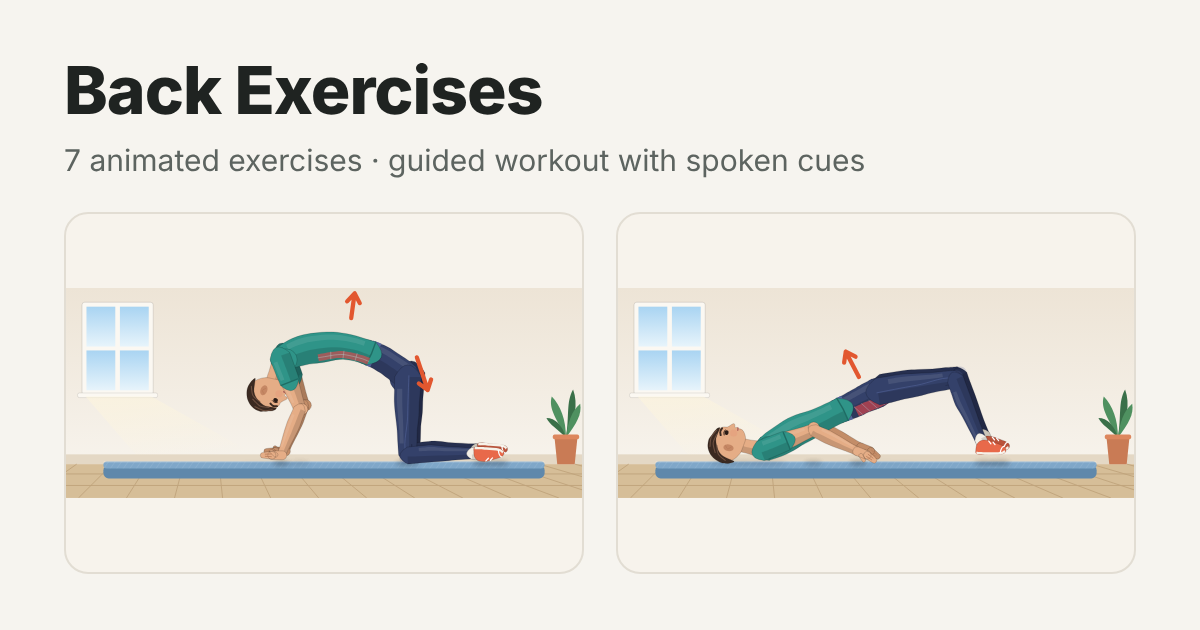
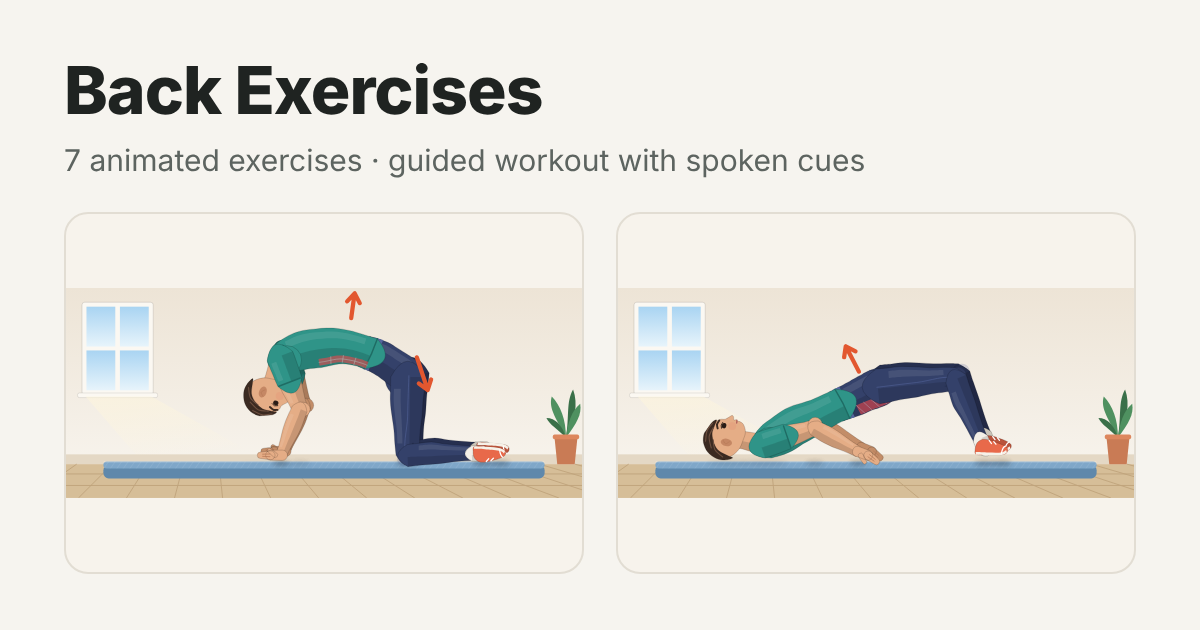
Give the figure an average build
Thicken the torso, arms, legs, neck and shoulders by about 30% and make
the head, hands and feet slightly larger, so the person looks like an
average adult rather than thin and lanky. Raise the lying poses to match
so the thicker body rests on the mat. Regenerate the preview image.

Claude-Session: https://claude.ai/code/session_01NZisG4pN7U1rupq7AcHetr

diff --git a/index.html b/index.html
@@ -677,6 +677,8 @@
 
   // ---------- Body model ----------
   const L = { torso: 72, neck: 10, head: 11, ua: 30, fa: 28, th: 44, sh: 42, foot: 12 };
+  // Body build: how thick the torso and limbs are (1 = slim), and head / hand / foot size.
+  const BUILD = 1.3, HEAD_S = 1.12, HAND_S = 1.15, SHOE_S = 1.08;
   const RAD = Math.PI / 180;
   const dir = (deg) => [Math.cos(deg * RAD), Math.sin(deg * RAD)];
   const add = (p, v, s) => [p[0] + v[0] * s, p[1] + v[1] * s];
@@ -790,6 +792,7 @@
     fore:   { f: [[0, 3.5], [0.3, 3.8], [1, 2.4]], b: [[0, 3.3], [0.3, 3.6], [1, 2.3]] },
     neck:   { f: [[0, 4.4], [1, 3.7]], b: [[0, 4.6], [1, 3.9]] },
   };
+  for (const k in LIMB) for (const side of ['f', 'b']) LIMB[k][side] = LIMB[k][side].map(([t, w]) => [t, w * BUILD]);
   const FRACS = [0, 0.15, 0.32, 0.5, 0.68, 0.85, 1];
   // A limb from A to B; `ant` points to the limb's front (quadriceps / biceps side). fa..fb trims the limb.
   function limbRibbon(A, B, prof, ant, fa = 0, fb = 1) {
@@ -812,8 +815,8 @@
   const cub = (H, C1, C2, S, t) => { const u = 1 - t; return [0, 1].map((k) => u * u * u * H[k] + 3 * u * u * t * C1[k] + 3 * u * t * t * C2[k] + t * t * t * S[k]); };
   const cubD = (H, C1, C2, S, t) => { const u = 1 - t; return norm([0, 1].map((k) => 3 * u * u * (C1[k] - H[k]) + 6 * u * t * (C2[k] - C1[k]) + 3 * t * t * (S[k] - C2[k]))); };
   // Torso half-widths along the spine (0 = hips, 1 = shoulders): front (chest/belly) and back (glutes/shoulder blades).
-  const TORSO_FRONT = [[0, 7.6], [0.3, 7.0], [0.5, 7.4], [0.72, 9.0], [0.9, 8.2], [1, 6.6]];
-  const TORSO_BACK  = [[0, 9.0], [0.18, 8.0], [0.38, 6.6], [0.7, 7.4], [0.84, 8.0], [0.94, 7.4], [1, 6.6]];
+  const TORSO_FRONT = [[0, 7.6], [0.3, 7.2], [0.5, 7.6], [0.72, 9.0], [0.9, 8.2], [1, 6.6]].map(([t, w]) => [t, w * BUILD]);
+  const TORSO_BACK  = [[0, 9.0], [0.18, 8.0], [0.38, 6.6], [0.7, 7.4], [0.84, 8.0], [0.94, 7.4], [1, 6.6]].map(([t, w]) => [t, w * BUILD]);
   function torsoRibbon(g, t0, t1, breath, tilt, face) {
     const P = [], N = [], wl = [], wr = [];
     for (let i = 0; i <= 10; i++) {
@@ -852,12 +855,13 @@
 
   function drawHand(parts, k, wrist, hdir, ant, grip) {
     const s = dot(perpOf(hdir), ant) >= 0 ? 1 : -1; // rotate toward the palm side
-    const palmEnd = add(wrist, hdir, 5.2);
+    const S = HAND_S;
+    const palmEnd = add(wrist, hdir, 5.2 * S);
     const fdir = rotVec(hdir, s * grip * 80);
-    const tip = add(palmEnd, fdir, 5.0);
+    const tip = add(palmEnd, fdir, 5.0 * S);
     const tdir = rotVec(hdir, s * 38);
-    const tBase = add(add(wrist, hdir, 1.6), ant, 1.4);
-    parts[k].setAttribute('d', capsule(add(wrist, hdir, -0.6), palmEnd, 2.5, 2.4) + capsule(palmEnd, tip, 2.2, 1.6) + capsule(tBase, add(tBase, tdir, 3.6), 1.25, 1.0));
+    const tBase = add(add(wrist, hdir, 1.6 * S), ant, 1.4 * S);
+    parts[k].setAttribute('d', capsule(add(wrist, hdir, -0.6), palmEnd, 2.5 * S, 2.4 * S) + capsule(palmEnd, tip, 2.2 * S, 1.6 * S) + capsule(tBase, add(tBase, tdir, 3.6 * S), 1.25 * S, 1.0 * S));
     const n = perpOf(fdir);
     parts[k + 'l'].setAttribute('d', `M${pt(add(add(palmEnd, n, 0.75), fdir, 0.4))}L${pt(add(add(tip, n, 0.6), fdir, -1.2))}M${pt(add(add(palmEnd, n, -0.75), fdir, 0.4))}L${pt(add(add(tip, n, -0.6), fdir, -1.2))}`);
   }
@@ -880,7 +884,7 @@
     // Torso: leggings over the hips, waistband, then the t-shirt.
     const pel = torsoRibbon(g, 0, 0.36, 0, tilt, ex.face).rib;
     setRib(parts, 'pelvis', pel);
-    setCircle(parts.pelvisCap, add(add(hip, front, -(0.8 + 1.6 * tilt)), td, -1.4 * tilt), 8.2 + 0.4 * Math.abs(tilt));
+    setCircle(parts.pelvisCap, add(add(hip, front, -(0.8 + 1.6 * tilt) * BUILD), td, -1.4 * tilt), (8.2 + 0.4 * Math.abs(tilt)) * BUILD);
     const band = (() => {
       const a = torsoBand(g, 0.27, 0.33, 1, -0.2, 0, ex.face), b = torsoBand(g, 0.27, 0.33, -1, -0.2, 0, ex.face);
       return spline(a.outer) + spline(b.outer.slice().reverse(), 'L') + 'Z';
@@ -888,7 +892,7 @@
     parts.band.setAttribute('d', band);
     const shirt = torsoRibbon(g, 0.31, 1, breath, 0, ex.face);
     setRib(parts, 'shirt', shirt.rib);
-    setCircle(parts.shoulderCap, add(sh, td, -3), 6.2);
+    setCircle(parts.shoulderCap, add(sh, td, -3.6), 6.2 * BUILD);
     const hemA = add(shirt.P[0], shirt.N[0], shirt.wl[0]), hemB = add(shirt.P[0], shirt.N[0], -shirt.wr[0]);
     parts.hem.setAttribute('d', `M${pt(hemA)}Q${pt(add(shirt.P[0], td, -0.8))} ${pt(hemB)}`);
 
@@ -898,18 +902,19 @@
     const nd = dir(n);
     const fwd = dir(n + ex.face * 90);
     const neckEnd = add(sh, nd, L.neck);
-    const hc = add(neckEnd, nd, L.head - 1);
-    const H = loc(hc, fwd, nd);
+    const hc = add(neckEnd, nd, (L.head - 1) * HEAD_S);
+    const H = loc(hc, [fwd[0] * HEAD_S, fwd[1] * HEAD_S], [nd[0] * HEAD_S, nd[1] * HEAD_S]);
     setRib(parts, 'neck', limbRibbon(add(sh, nd, -3), H([0.6, -6.8]), LIMB.neck, fwd));
-    parts.collar.setAttribute('d', `M${pt(add(add(sh, perp, 5.2), nd, -0.6))}Q${pt(add(sh, nd, 1.6))} ${pt(add(add(sh, perp, -5.2), nd, -0.6))}`);
+    parts.collar.setAttribute('d', `M${pt(add(add(sh, perp, 5.2 * BUILD), nd, -0.6))}Q${pt(add(sh, nd, 1.8))} ${pt(add(add(sh, perp, -5.2 * BUILD), nd, -0.6))}`);
     parts.head.setAttribute('d', closedSpline(HEAD.map(H)));
-    const Hh = loc(hc, dir(n + hairLag + ex.face * 90), dir(n + hairLag));
+    const hf = dir(n + hairLag + ex.face * 90), hu = dir(n + hairLag);
+    const Hh = loc(hc, [hf[0] * HEAD_S, hf[1] * HEAD_S], [hu[0] * HEAD_S, hu[1] * HEAD_S]);
     parts.hair.setAttribute('d', closedSpline(HAIR.map(Hh)));
     parts.strands.setAttribute('d', STRANDS.map((s) => spline(s.map(Hh))).join(''));
     const blink = idle && (t % 3900) < 140;
     const eye = H([5.9, 2.4]);
     setCircle(parts.eye, eye);
-    parts.eye.setAttribute('ry', blink ? '0.2' : '1.15');
+    parts.eye.setAttribute('ry', f1((blink ? 0.2 : 1.15) * HEAD_S));
     parts.eye.setAttribute('transform', `rotate(${f1(n + ex.face * 90)} ${pt(eye)})`);
     parts.lid.setAttribute('d', spline([[4.4, 3.4], [5.9, 3.9], [7.3, 3.3]].map(H)));
     parts.brow.setAttribute('d', spline([[4.0, 5.4], [6.0, 6.0], [8.0, 5.3]].map(H)));
@@ -934,8 +939,8 @@
       setRib(parts, side + 'sl', limbRibbon(sh, elb, LIMB.sleeve, armAnt, -0.06, 0.46));
       const ud = norm(sub(elb, sh)), un = perpOf(ud);
       const hemC = add(sh, ud, L.ua * 0.46);
-      parts[side + 'slhem'].setAttribute('d', `M${pt(add(hemC, un, 5.0))}L${pt(add(hemC, un, -5.0))}`);
-      setCircle(parts[side + 'elb'], add(elb, armAnt, -1.4), 3.1);
+      parts[side + 'slhem'].setAttribute('d', `M${pt(add(hemC, un, 5.0 * BUILD))}L${pt(add(hemC, un, -5.0 * BUILD))}`);
+      setCircle(parts[side + 'elb'], add(elb, armAnt, -1.4 * BUILD), 3.1 * BUILD);
       setRib(parts, side + 'fa', limbRibbon(elb, hand, LIMB.fore, armAnt));
       const fdir = norm(sub(hand, elb));
       const a0 = angOf(fdir);
@@ -954,14 +959,14 @@
       setRib(parts, side + 'th', limbRibbon(hip, knee, LIMB.thigh, legAnt));
       setRib(parts, side + 'sh', limbRibbon(knee, ank, LIMB.shin, legAnt));
       setRib(parts, side + 'sock', limbRibbon(knee, ank, LIMB.sock, legAnt, 0.86, 1.02));
-      const kneeCap = add(knee, legAnt, 3.2);
+      const kneeCap = add(knee, legAnt, 3.2 * BUILD);
       setCircle(parts[side + 'knee'], kneeCap);
       parts[side + 'knee'].setAttribute('transform', `rotate(${f1(angOf(sub(ank, hip)))} ${pt(kneeCap)})`);
       if (parts[side + 'seam']) parts[side + 'seam'].setAttribute('d', spline([add(hip, legAnt, -1), lerp2(hip, knee, 0.5), knee, lerp2(knee, ank, 0.5), add(ank, legAnt, -0.5)]));
       const dTh = norm(sub(knee, hip)), dSh = norm(sub(ank, knee));
       const bend = Math.acos(Math.max(-1, Math.min(1, dot(dTh, dSh)))) / RAD;
       if (parts[side + 'crease']) {
-        const bk = add(knee, legAnt, -3.4);
+        const bk = add(knee, legAnt, -3.4 * BUILD);
         parts[side + 'crease'].setAttribute('d', `M${pt(add(bk, dTh, -3.5))}Q${pt(add(bk, legAnt, 0.8))} ${pt(add(bk, dSh, 3.5))}M${pt(add(add(bk, dTh, -2), legAnt, 1.2))}Q${pt(add(bk, legAnt, 1.8))} ${pt(add(add(bk, dSh, 2), legAnt, 1.2))}`);
         parts[side + 'crease'].setAttribute('opacity', clamp01((bend - 55) / 50).toFixed(2));
       }
@@ -969,7 +974,7 @@
       const fd = dir(p[side + 'f']);
       let up = perpOf(fd);
       if (dot(up, sub(knee, ank)) < 0) up = neg(up);
-      const F = loc(ank, fd, up);
+      const F = loc(ank, [fd[0] * SHOE_S, fd[1] * SHOE_S], [up[0] * SHOE_S, up[1] * SHOE_S]);
       parts[side + 'shoe'].setAttribute('d', closedSpline(SHOE.map(F)));
       parts[side + 'sole'].setAttribute('d', spline([[-4.5, -3.4], [2, -3.7], [9, -3.6], [11.7, -2.3]].map(F)) + spline([[11.2, -1.0], [9, -2.2], [2, -2.3], [-4.6, -2.0]].map(F), 'L') + 'Z');
       parts[side + 'lace'].setAttribute('d', `M${pt(F([2.4, 4.0]))}L${pt(F([3.6, 2.4]))}M${pt(F([4.8, 3.4]))}L${pt(F([5.9, 2.0]))}M${pt(F([8.8, -2.6]))}Q${pt(F([9.4, 0.6]))} ${pt(F([10.8, 1.0]))}`);
@@ -1050,10 +1055,10 @@
         const el = document.createElementNS(SVGNS, tag);
         el.setAttribute('class', cls);
         el.dataset.p = key;
-        if (key === 'blush') el.setAttribute('r', '2');
-        if (key === 'eye') { el.setAttribute('rx', '1.35'); el.setAttribute('ry', '1.15'); }
-        if (key === 'ear') { el.setAttribute('rx', '1.9'); el.setAttribute('ry', '2.9'); }
-        if (key.endsWith('knee')) { el.setAttribute('rx', '2.8'); el.setAttribute('ry', '2.1'); }
+        if (key === 'blush') el.setAttribute('r', f1(2 * HEAD_S));
+        if (key === 'eye') { el.setAttribute('rx', f1(1.35 * HEAD_S)); el.setAttribute('ry', f1(1.15 * HEAD_S)); }
+        if (key === 'ear') { el.setAttribute('rx', f1(1.9 * HEAD_S)); el.setAttribute('ry', f1(2.9 * HEAD_S)); }
+        if (key.endsWith('knee')) { el.setAttribute('rx', f1(2.8 * BUILD)); el.setAttribute('ry', f1(2.1 * BUILD)); }
         g.appendChild(el);
         parts[key] = el;
       }
@@ -1077,9 +1082,9 @@
   // bl/bt lower/upper back bend (from b); hg hand grip 0..1; hd/hdw hand angle and how much it overrides the forearm.
   const P = (o, extra) => Object.assign({}, o, extra || {});
   const base = { b: 0, g: 0, pt: 0, a1: 0, a2: 0, m2: 0, hg: 0.2, hd: 0, hdw: 0 };
-  const supineFlat = P(base, { hx: 210, hy: 193, t: 180, n: 190, nh: [195, 193], fh: [195, 193], nk: [296, 193], fk: [296, 193], nf: -70, ff: -70 });
-  const supineBent = P(base, { hx: 210, hy: 193, t: 180, n: 190, nh: [195, 194], fh: [195, 194], nk: [266, 192], fk: [266, 192], nf: 0, ff: 0 });
-  const prone      = P(base, { hx: 220, hy: 192, t: 180, n: 187, nh: [205, 194], fh: [205, 194], nk: [306, 193], fk: [306, 193], nf: 15, ff: 15 });
+  const supineFlat = P(base, { hx: 210, hy: 189.5, t: 180, n: 190, nh: [195, 193], fh: [195, 193], nk: [296, 193], fk: [296, 193], nf: -70, ff: -70 });
+  const supineBent = P(base, { hx: 210, hy: 189.5, t: 180, n: 190, nh: [195, 194], fh: [195, 194], nk: [266, 192], fk: [266, 192], nf: 0, ff: 0 });
+  const prone      = P(base, { hx: 220, hy: 188.5, t: 180, n: 187, nh: [205, 194], fh: [205, 194], nk: [306, 193], fk: [306, 193], nf: 15, ff: 15 });
   const quad       = P(base, { hx: 252, hy: 150, t: 188, n: 188, nh: [181, 196], fh: [181, 196], nk: [294, 195], fk: [294, 195], nf: 5, ff: 5 });
 
   // hold: 'H' = the hold time from "Your plan"; otherwise milliseconds.
@@ -1124,7 +1129,7 @@
       poses: {
         flat: supineFlat,
         rest: P(supineBent, { bl: 13, bt: 3 }),
-        tilt: P(supineBent, { bl: 0, bt: 0, hy: 191.5, t: 179, g: 1, a1: 1, pt: 0.6 }),
+        tilt: P(supineBent, { bl: 0, bt: 0, hy: 188, t: 179, g: 1, a1: 1, pt: 0.6 }),
       },
       start: 'flat',
       cycle: [
@@ -1208,7 +1213,7 @@
       poses: {
         flat: supineFlat,
         down: supineBent,
-        up: P(supineBent, { hx: 206, hy: 160, t: 152.7, g: 1, a1: 1 }),
+        up: P(supineBent, { hx: 206, hy: 157, t: 152.7, g: 1, a1: 1 }),
       },
       start: 'flat',
       cycle: [
